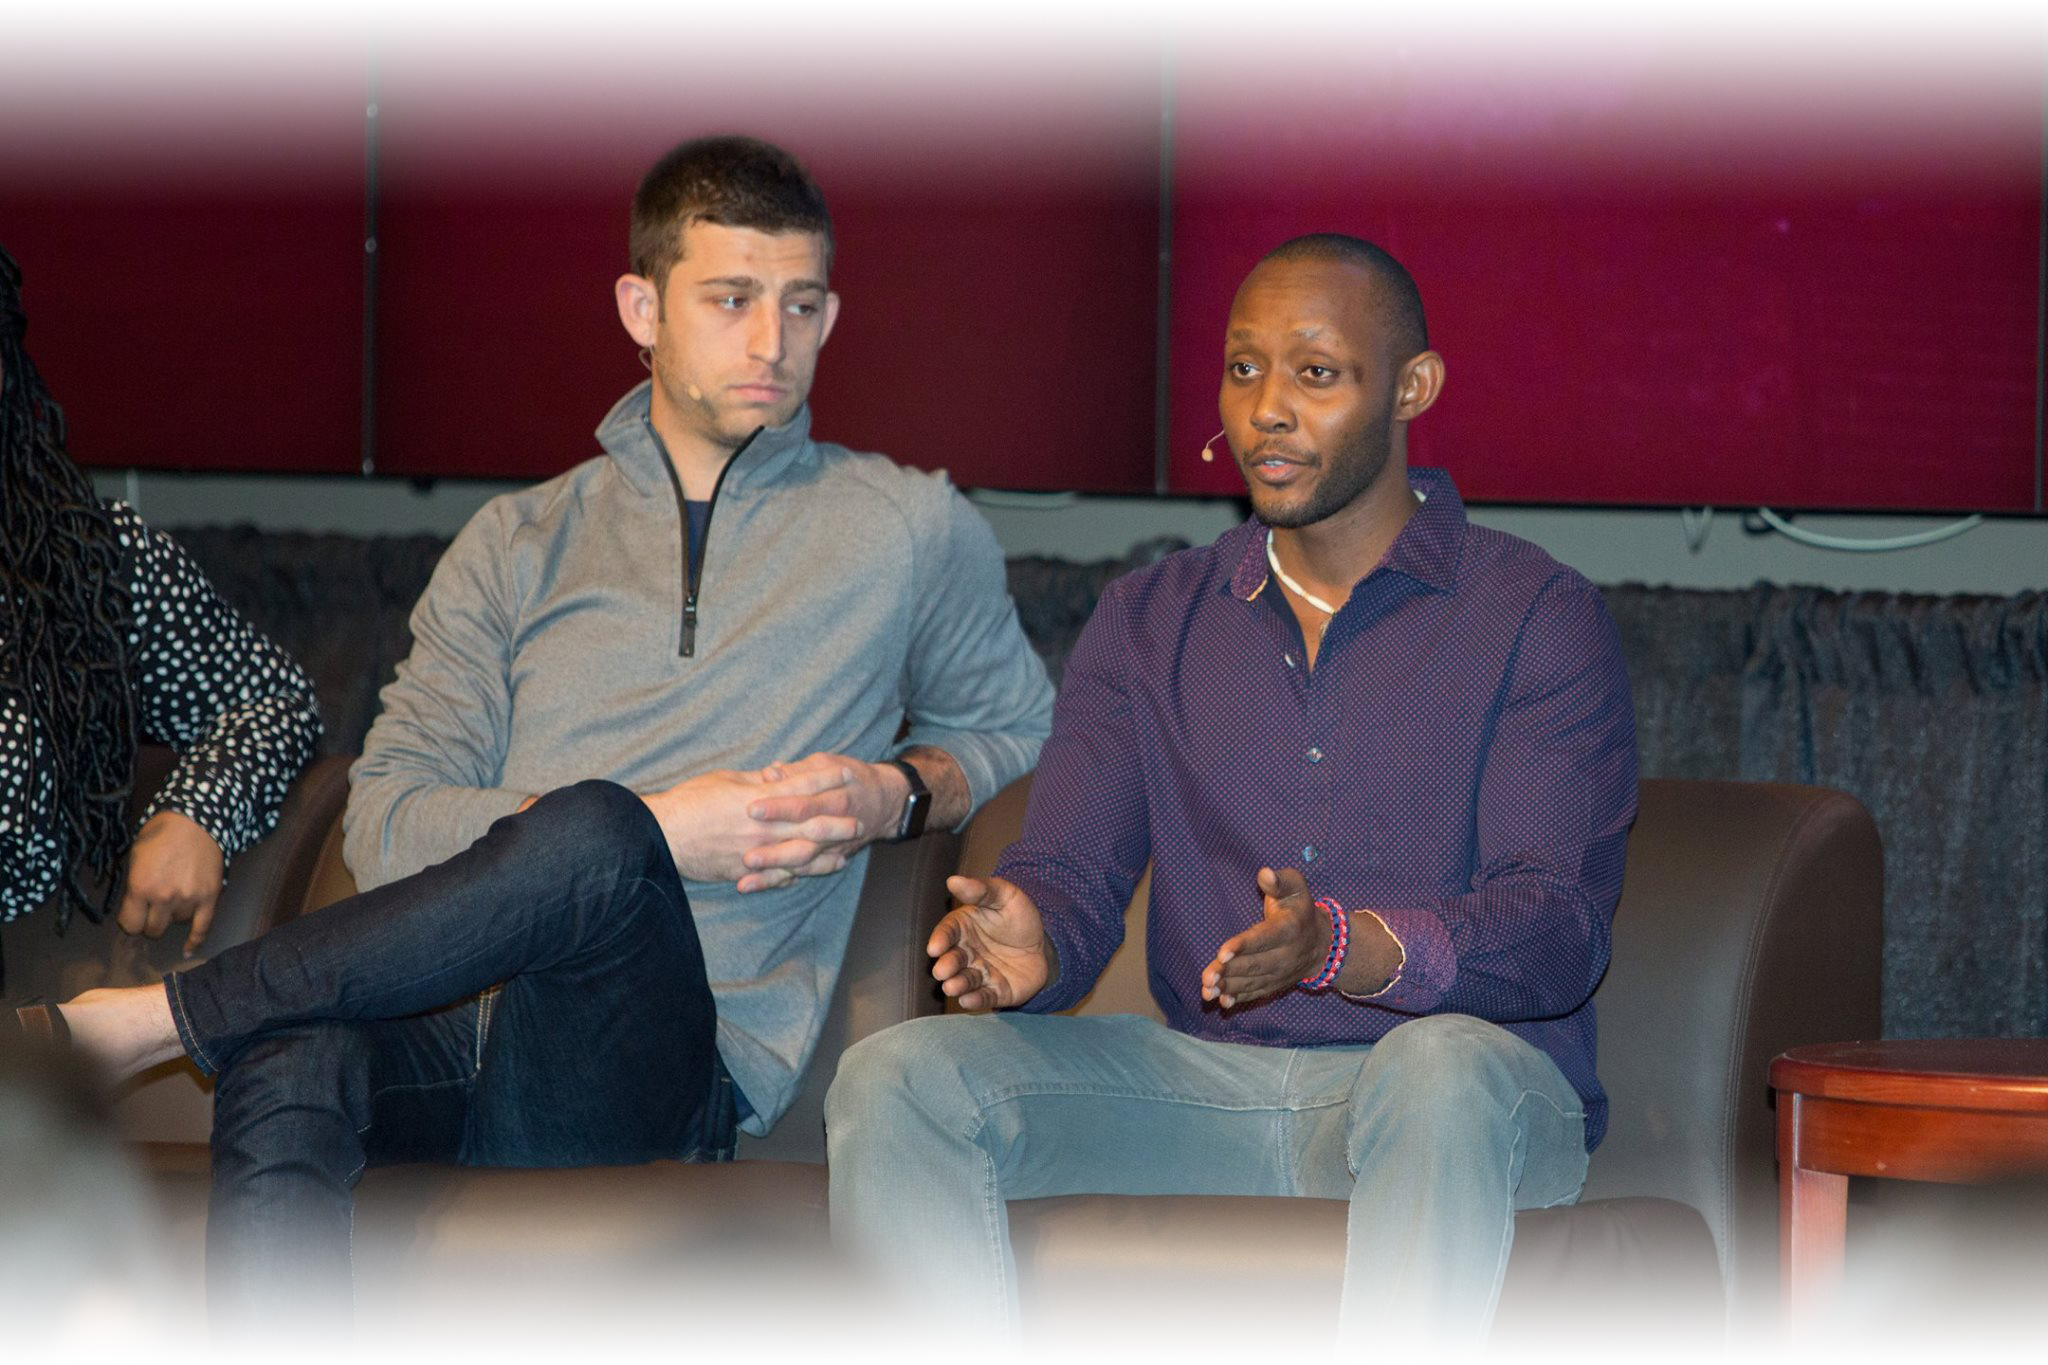
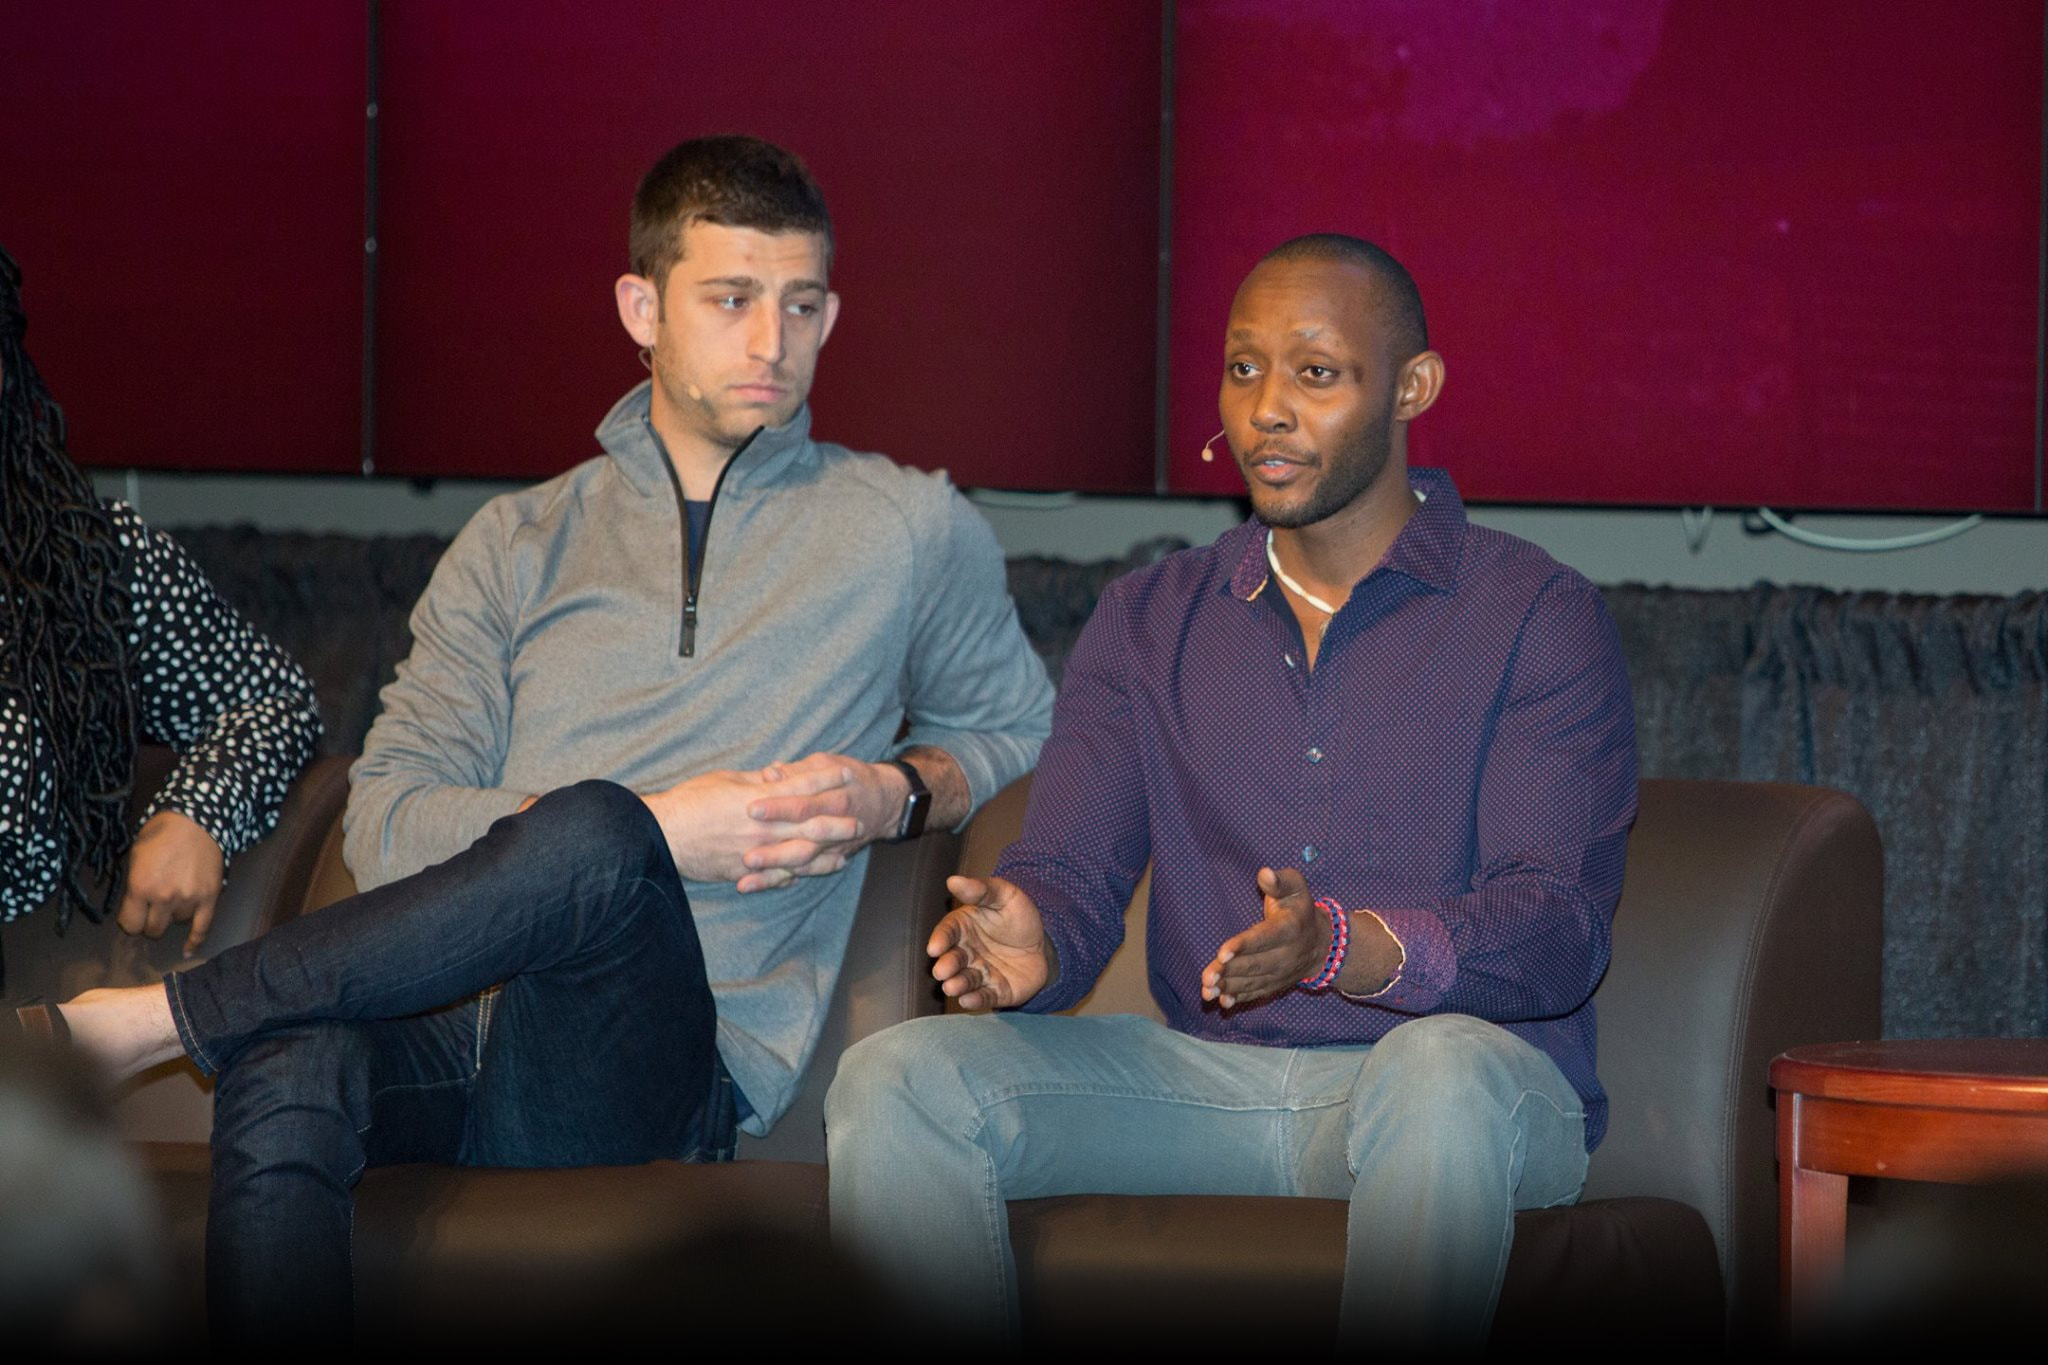
clean

Changed region(s): [[0.0, 0.8615, 1.0, 1.0], [0.0, 0.0, 1.0, 0.1538]]

diff --git a/index.html b/index.html
@@ -162,7 +162,7 @@
                 </div>
             </div>
             <div class="bgc-white">
-                <img src="./img/lweru_7under30_panel_grad_wb.jpg" style="width:100%;" />
+                <img src="./img/lweru_7under30_panel_grad.jpg" style="width:100%;" />
             </div>             
 
             <!-- bloc-4 END -->             
@@ -394,16 +394,13 @@ teams love to use.</p>
                 <div class="container bloc-xl">
                     <div class="row animated fadeIn">
                         <div class="col-xs-12 col-md-8 col-md-offset-2">
-                            <div class="col-sm-3 text-center">
+                            <div class="col-sm-4 text-center">
                                 <a class="social-lg" href="https://twitter.com/LarryWeru" target="_blank"><span class="fa fa-twitter icon-lg"></span></a>
                             </div>
-                            <div class="col-sm-3 text-center">
-                                <a class="social-lg" href="https://www.facebook.com/profile.php?id=100006086209115" target="_blank"><span class="fa fa-facebook icon-lg"></span></a>
+                            <div class="col-sm-4 text-center">
+                                <a class="social-lg" href="https://www.linkedin.com/in/lawrence-weru-b1091839/" target="_blank"><span class="fa fa-linkedin icon-lg"></span></a>
                             </div>
-                            <div class="col-sm-3 text-center">
-                                <a class="social-lg" href="https://www.linkedin.com/profile/view?id=AAIAAAglCTwBw_S6208t_y9zsMKNP2YxF-12KRQ" target="_blank"><span class="fa fa-linkedin icon-lg"></span></a>
-                            </div>
-                            <div class="col-sm-3 text-center">
+                            <div class="col-sm-4 text-center">
                                 <a class="social-lg" href="https://github.com/LDubya" target="_blank"><span class="fa fa-github-square icon-lg"></span></a>
                             </div>
                         </div>
